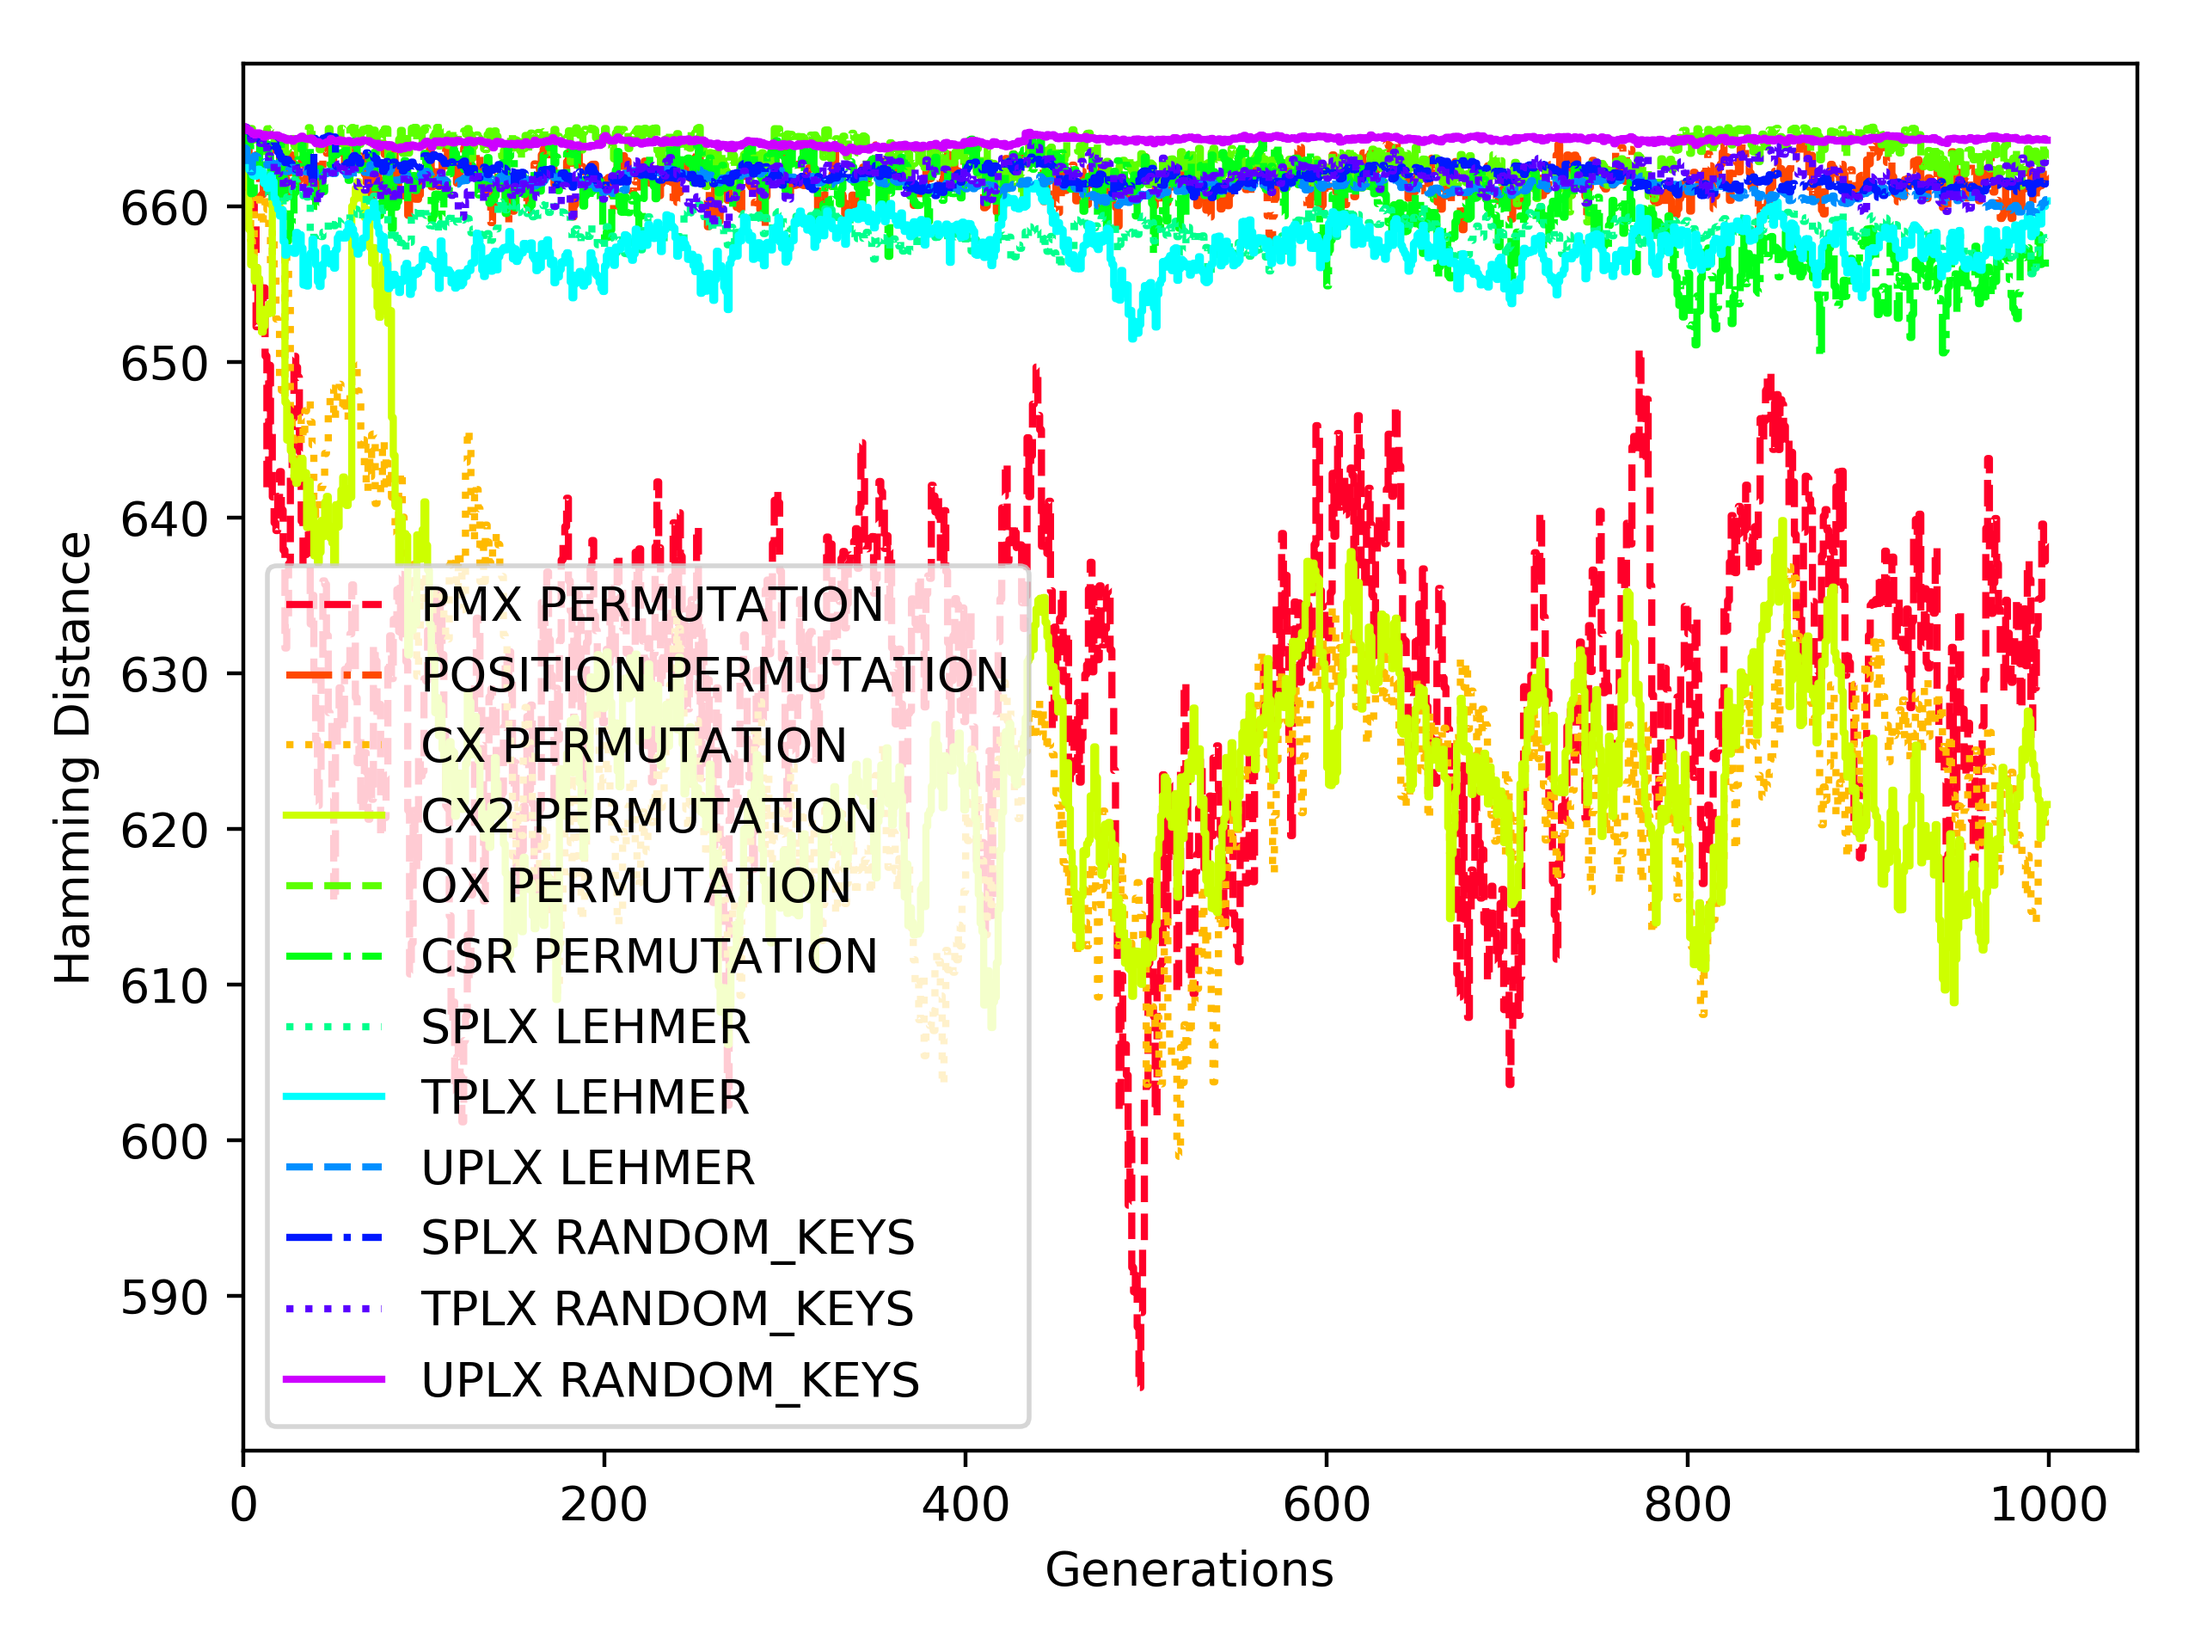
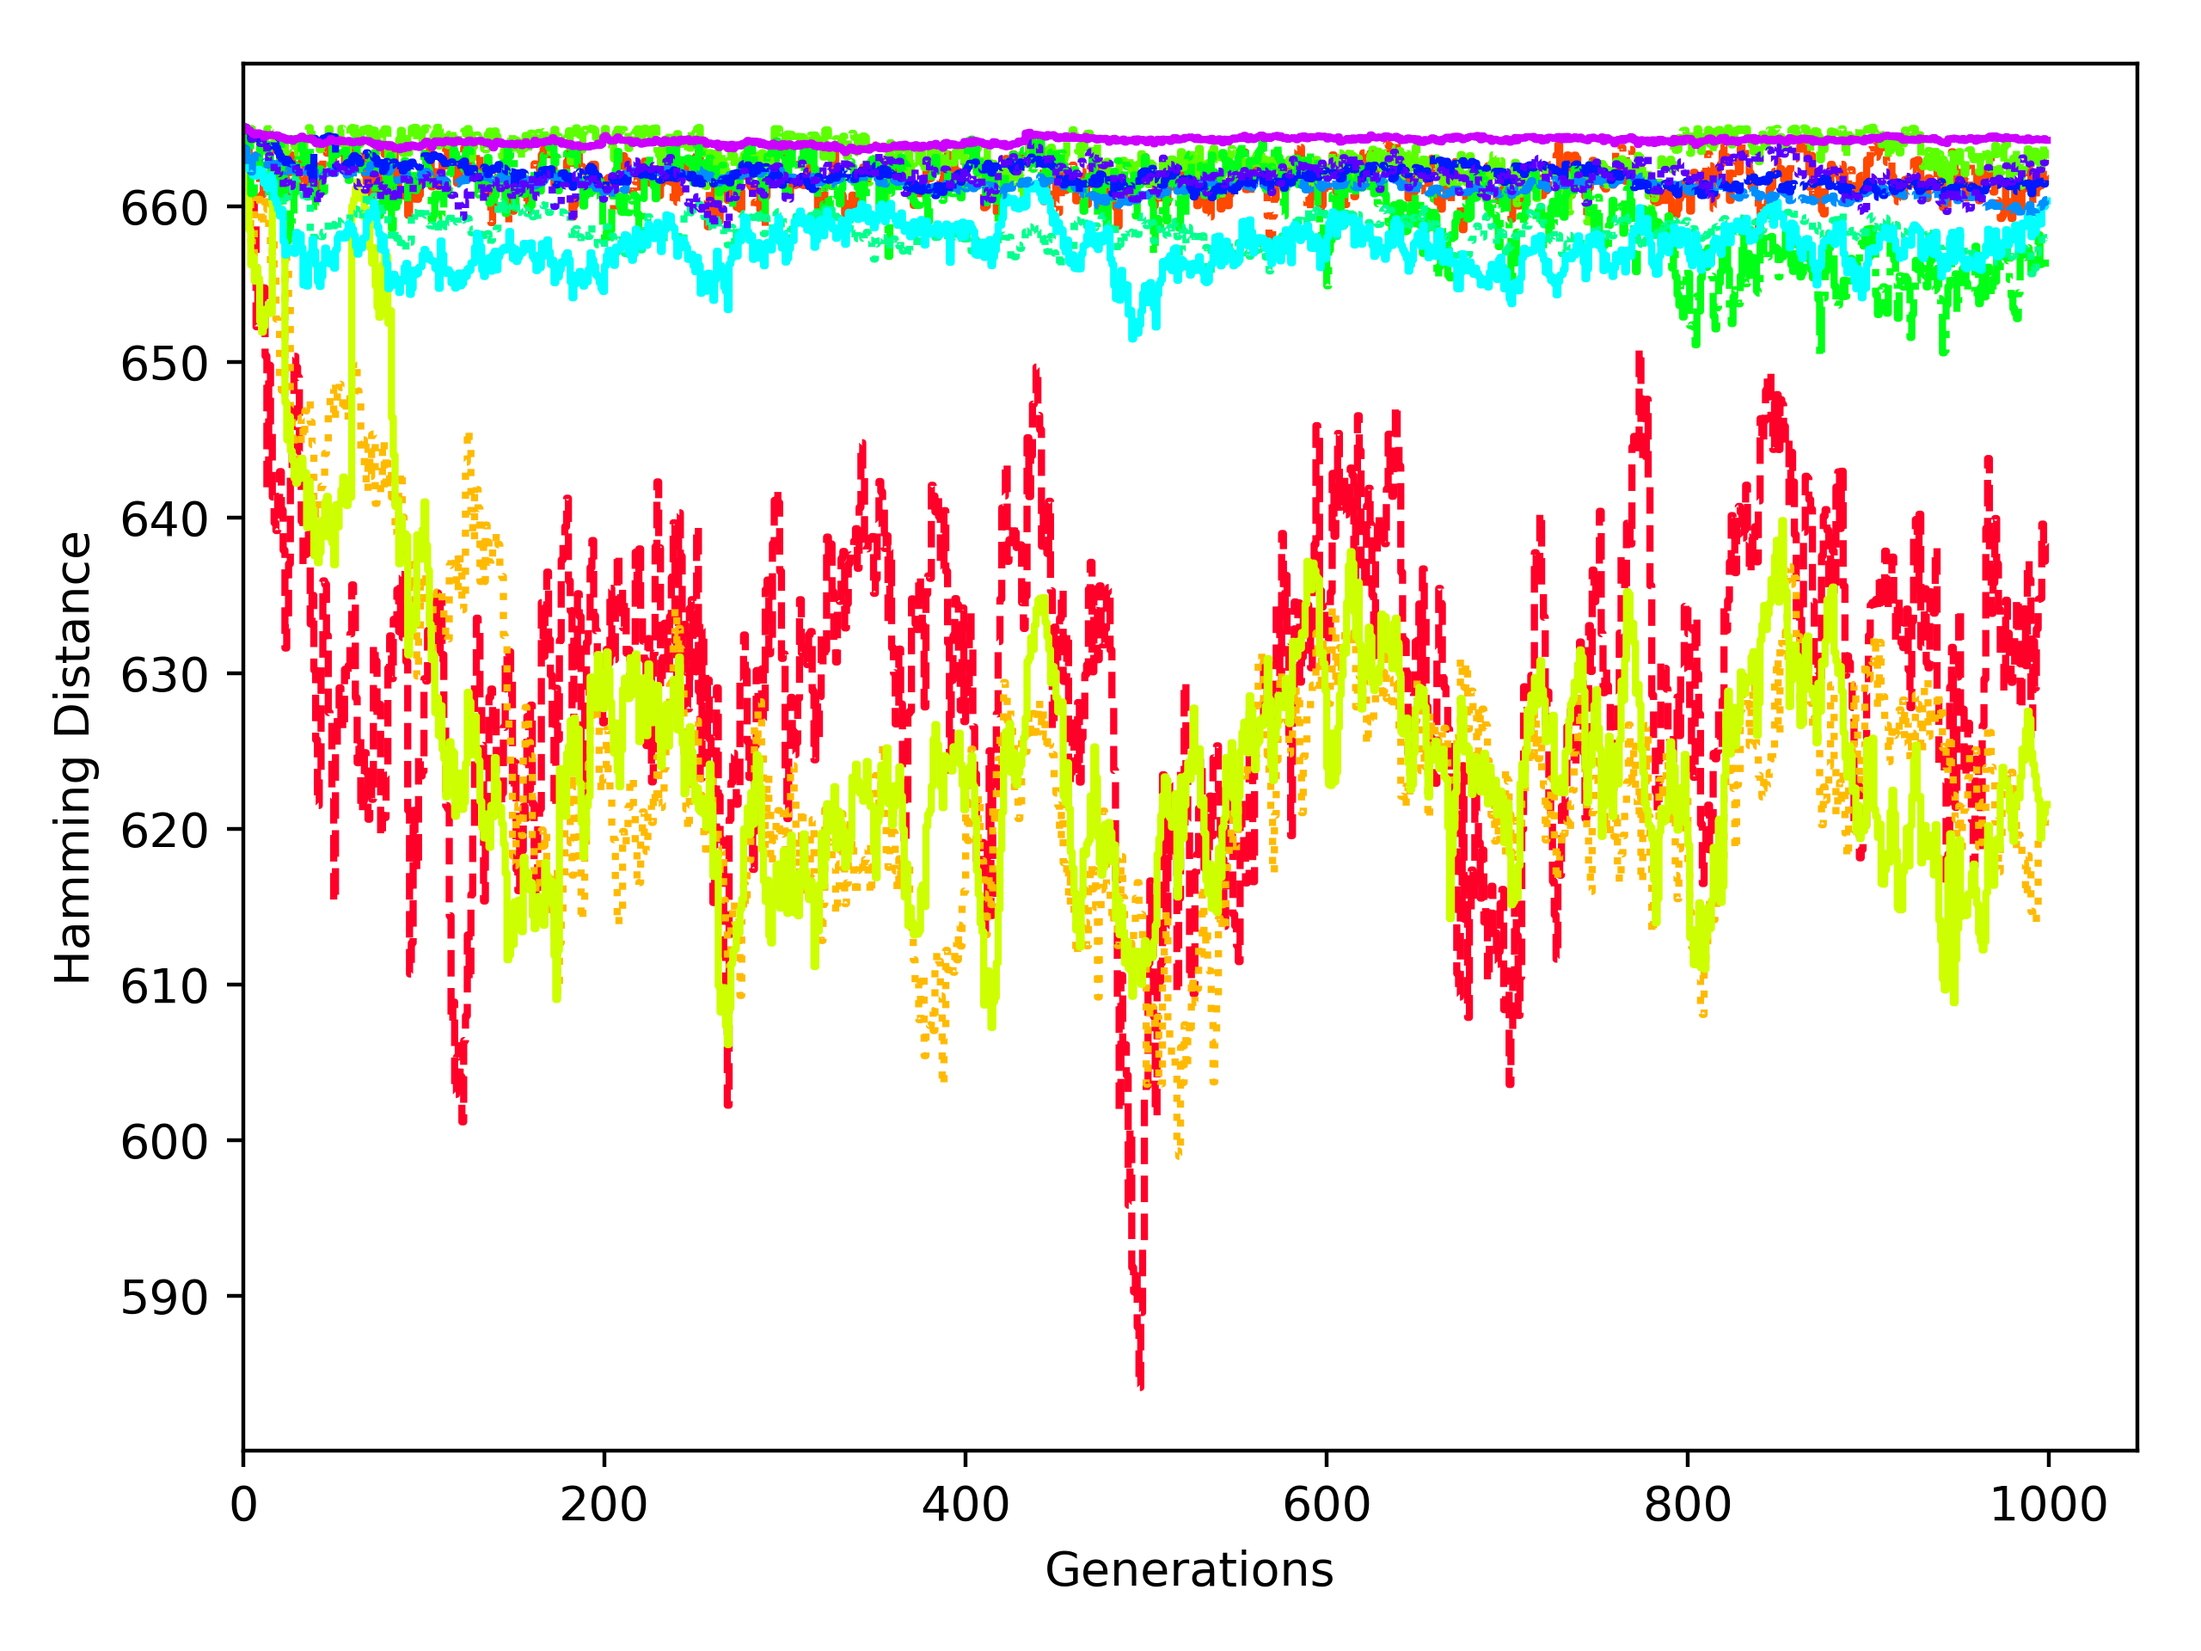
More Data Analysis
Added script to make latex table

Changed region(s): [[0.125, 0.3438, 0.4688, 0.875]]

diff --git a/GA_lapagos/EXPERIMENTS/TSP_ENCODING_XOVERS_ANALYSIS_APRIL7_2020/create_EBI_latex_graphs.py b/GA_lapagos/EXPERIMENTS/TSP_ENCODING_XOVERS_ANALYSIS_APRIL7_2020/create_EBI_latex_graphs.py
@@ -27,18 +27,12 @@ import matplotlib.pyplot as plt
 print ("Number of arguments: %d" %  len(sys.argv))
 print ("Argument List: %s" % str(sys.argv))
 
-NUM_COLORS = int(sys.argv[3])
-line_style=['-','--','-.',':']
-# start the plot
-f, ax = plt.subplots()
-# set up a color cylcle based on NUM_COLORS
-cm = plt.get_cmap('gist_rainbow')
-ax.set_prop_cycle(color=[cm(1.*i/NUM_COLORS) for i in range(NUM_COLORS)])
-
 # argument 1 is max number of columns which we use
 column_header_list =  [str(x) for x in range(int(sys.argv[1]))]
 
 list_legend = []
+list_means = []
+list_std = []
 
 # get all the files to analyze
 file_list = glob.glob('*'+sys.argv[2].rstrip()+'*')
@@ -55,19 +49,14 @@ for log_file in file_list:
     problem_type_name = re.search('PSADJACENCY_(.+?)PE', log_file).group(1)
     exit_name = re.search('_ES(.+?)EE', log_file).group(1)
     bench_name = re.search('_BS(.+?)BE', log_file).group(1)
-    # add to the list that will be the legend
-    list_legend.append(cross_name + ' ' + problem_type_name)
+    # add to the lists
+    list_legend.append(cross_name)
+    list_means.append(frame.loc[frame['1'].str.contains('EBI_avg generation')]['3'].mean())
+    list_std.append(frame.loc[frame['1'].str.contains('EBI_avg generation')]['3'].std())
 
-    # do a step plot and set to x = 0 as start
-    ax.plot(frame.loc[frame['1'].str.contains('Hamming Generation')]['2'],
-            frame.loc[frame['1'].str.contains('Hamming Generation')]['3'],
-            linestyle=line_style[count % 4])
-    ax.set_xlim(0)
+df = pd.DataFrame({'Mean':list_means,'Standard Dev':list_std}, index = list_legend)
+# two decimal places
+df = df.round(2)
+print(df.to_latex())
 
-if bench_name == '0':
-    plt.legend(list_legend, loc='lower left', framealpha=0.5)
 
-plt.xlabel('Generations')
-plt.ylabel('Hamming Distance')
-plt.tight_layout()
-plt.savefig('bmark_hamming_'+exit_name+'_'+bench_name+'.png', dpi=400)
